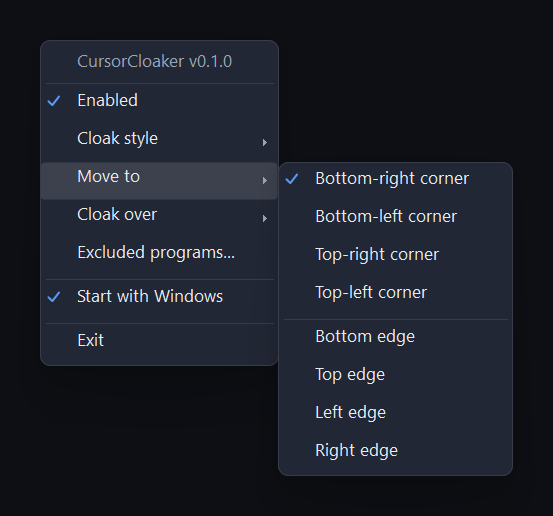
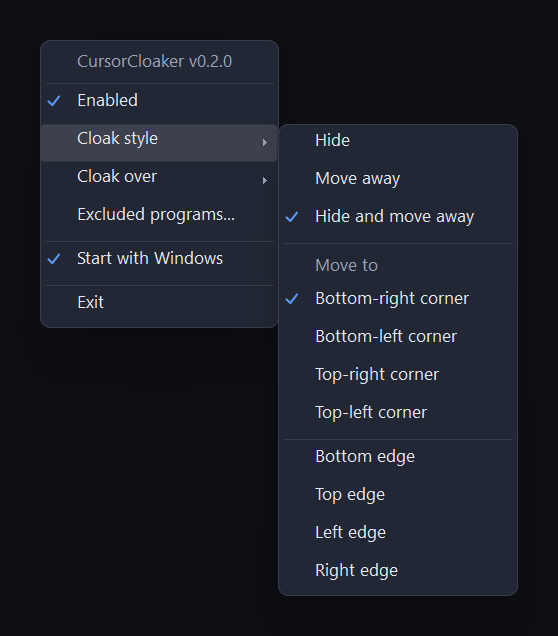
feat: put park positions in the Cloak style submenu
- Positions sit under a "Move to" heading below the three styles, instead of in their own top-level submenu; a nested submenu would have been a third menu level
- Heading and positions grey out while the style is Hide; the current position stays checked
- Preview and README screenshot scripts follow; README, DESIGN and HANDOFF updated

Changed region(s): [[0.0615, 0.062, 0.953, 0.4341], [0.0615, 0.4651, 0.9222, 0.9612], [0.5533, 0.4031, 0.8608, 0.6822]]

diff --git a/src/CursorCloaker/Ui/TrayMenu.cs b/src/CursorCloaker/Ui/TrayMenu.cs
@@ -17,7 +17,7 @@ namespace CursorCloaker.Ui
     {
         private readonly ToolStripMenuItem enabledItem = new ToolStripMenuItem("Enabled");
         private readonly ToolStripMenuItem modeItem = new ToolStripMenuItem("Cloak style");
-        private readonly ToolStripMenuItem parkItem = new ToolStripMenuItem("Move to");
+        private readonly ToolStripLabel moveToHeading = new ToolStripLabel("Move to");
         private readonly ToolStripMenuItem scopeItem = new ToolStripMenuItem("Cloak over");
         private readonly ToolStripMenuItem startupItem = new ToolStripMenuItem("Start with Windows");
         private CloakSettings settings;
@@ -40,19 +40,20 @@ namespace CursorCloaker.Ui
             AddChoice(modeItem, "Hide", CloakMode.Hide, (copy, value) => copy.Mode = value);
             AddChoice(modeItem, "Move away", CloakMode.Park, (copy, value) => copy.Mode = value);
             AddChoice(modeItem, "Hide and move away", CloakMode.HideAndPark, (copy, value) => copy.Mode = value);
+            // Where "move away" goes, in the same submenu: a third menu level would be fiddly to
+            // reach. Corners first (the usual choice), then the middle of each edge.
+            modeItem.DropDownItems.Add(new ToolStripSeparator());
+            modeItem.DropDownItems.Add(moveToHeading);
+            AddChoice(modeItem, "Bottom-right corner", ParkPosition.BottomRight, (copy, value) => copy.ParkPosition = value);
+            AddChoice(modeItem, "Bottom-left corner", ParkPosition.BottomLeft, (copy, value) => copy.ParkPosition = value);
+            AddChoice(modeItem, "Top-right corner", ParkPosition.TopRight, (copy, value) => copy.ParkPosition = value);
+            AddChoice(modeItem, "Top-left corner", ParkPosition.TopLeft, (copy, value) => copy.ParkPosition = value);
+            modeItem.DropDownItems.Add(new ToolStripSeparator());
+            AddChoice(modeItem, "Bottom edge", ParkPosition.BottomEdge, (copy, value) => copy.ParkPosition = value);
+            AddChoice(modeItem, "Top edge", ParkPosition.TopEdge, (copy, value) => copy.ParkPosition = value);
+            AddChoice(modeItem, "Left edge", ParkPosition.LeftEdge, (copy, value) => copy.ParkPosition = value);
+            AddChoice(modeItem, "Right edge", ParkPosition.RightEdge, (copy, value) => copy.ParkPosition = value);
             Menu.Items.Add(modeItem);
-
-            // Corners first (the usual choice), then the middle of each edge.
-            AddChoice(parkItem, "Bottom-right corner", ParkPosition.BottomRight, (copy, value) => copy.ParkPosition = value);
-            AddChoice(parkItem, "Bottom-left corner", ParkPosition.BottomLeft, (copy, value) => copy.ParkPosition = value);
-            AddChoice(parkItem, "Top-right corner", ParkPosition.TopRight, (copy, value) => copy.ParkPosition = value);
-            AddChoice(parkItem, "Top-left corner", ParkPosition.TopLeft, (copy, value) => copy.ParkPosition = value);
-            parkItem.DropDownItems.Add(new ToolStripSeparator());
-            AddChoice(parkItem, "Bottom edge", ParkPosition.BottomEdge, (copy, value) => copy.ParkPosition = value);
-            AddChoice(parkItem, "Top edge", ParkPosition.TopEdge, (copy, value) => copy.ParkPosition = value);
-            AddChoice(parkItem, "Left edge", ParkPosition.LeftEdge, (copy, value) => copy.ParkPosition = value);
-            AddChoice(parkItem, "Right edge", ParkPosition.RightEdge, (copy, value) => copy.ParkPosition = value);
-            Menu.Items.Add(parkItem);
 
             AddChoice(scopeItem, "Fullscreen programs", CloakScope.FullscreenOnly, (copy, value) => copy.Scope = value);
             AddChoice(scopeItem, "All programs", CloakScope.AllPrograms, (copy, value) => copy.Scope = value);
@@ -78,10 +79,17 @@ namespace CursorCloaker.Ui
             settings = current;
             enabledItem.Checked = current.Enabled;
             startupItem.Checked = current.StartWithWindows;
-            foreach (ToolStripMenuItem choice in modeItem.DropDownItems) choice.Checked = Equals(choice.Tag, current.Mode);
-            foreach (var choice in parkItem.DropDownItems.OfType<ToolStripMenuItem>()) choice.Checked = Equals(choice.Tag, current.ParkPosition);
-            // Plain Hide never moves the cursor, so where it would move to doesn't apply.
-            parkItem.Enabled = current.Mode != CloakMode.Hide;
+            moveToHeading.Enabled = current.Mode != CloakMode.Hide;
+            foreach (var choice in modeItem.DropDownItems.OfType<ToolStripMenuItem>())
+            {
+                if (choice.Tag is CloakMode mode) choice.Checked = mode == current.Mode;
+                else if (choice.Tag is ParkPosition position)
+                {
+                    choice.Checked = position == current.ParkPosition;
+                    // Plain Hide never moves the cursor, so where it would move to doesn't apply.
+                    choice.Enabled = current.Mode != CloakMode.Hide;
+                }
+            }
             foreach (ToolStripMenuItem choice in scopeItem.DropDownItems) choice.Checked = Equals(choice.Tag, current.Scope);
         }
 

diff --git a/README.md b/README.md
@@ -15,7 +15,7 @@ game and the cursor disappears. Touch the mouse and it comes straight back. Ordi
 never affected.
 
 <p align="center">
-  <img src="docs/images/tray-menu.png" width="440" alt="CursorCloaker tray menu with the Move to submenu open, listing four corners and four edges">
+  <img src="docs/images/tray-menu.png" width="440" alt="CursorCloaker tray menu with the Cloak style submenu open: three styles, then four corners and four edges to move the cursor to">
 </p>
 
 ## Download
@@ -57,8 +57,8 @@ Click the tray icon:
 
 - **Enabled**: pause or resume. The icon greys out while paused.
 - **Cloak style**: hide the cursor, move it away, or both (the default). Moving it helps with games that
-  draw their own cursor.
-- **Move to**: where a moved cursor goes. Any corner (bottom-right by default) or the middle of any edge.
+  draw their own cursor. The same submenu sets where it moves to: any corner (bottom-right by default) or the
+  middle of any edge.
 - **Cloak over**: fullscreen programs only (the default), or all programs.
 - **Excluded programs…**: programs CursorCloaker never touches.
 - **Start with Windows**

diff --git a/docs/DESIGN.md b/docs/DESIGN.md
@@ -133,8 +133,9 @@ desktop (`Progman` / `WorkerW`) and the taskbar never count. The process is DPI 
 Left or right click opens it. While paused, the tray icon is dimmed and its tooltip says so.
 
 - **Enabled**: on or off.
-- **Cloak style**: Hide, Move away, or Hide and move away (`Mode`).
-- **Move to**: four corners, then the four edge midpoints (`ParkPosition`). Disabled while the style is Hide.
+- **Cloak style**: Hide, Move away, or Hide and move away (`Mode`). Below them, under a "Move to" heading, come
+  the four corners and then the four edge midpoints (`ParkPosition`). They're greyed out while the style is Hide. They sit in
+  the same submenu, not a submenu of their own, to avoid a third menu level.
 - **Cloak over**: Fullscreen programs or All programs (`Scope`).
 - **Excluded programs…**: opens the exclusions window.
 - **Start with Windows**: on or off.

diff --git a/HANDOFF.md b/HANDOFF.md
@@ -56,7 +56,7 @@ reported it "works well". They didn't say which models. On 2026-11-25 they repor
 
 ## Since v0.1.0 (unreleased; version already bumped to 0.2.0)
 
-- **Park position setting** (`ParkPosition`, tray **Move to**): any corner or the middle of any edge, default bottom-right.
+- **Park position setting** (`ParkPosition`, in the tray's **Cloak style** submenu under a "Move to" heading): any corner or the middle of any edge, default bottom-right.
   Tested: every position has a unit test (a deliberately swapped position was caught), and the real cursor was parked
   at `TopLeft` → 0,0 and `RightEdge` → 2559,719 on a 2560×1440 screen. Menu screenshots reviewed.
 
